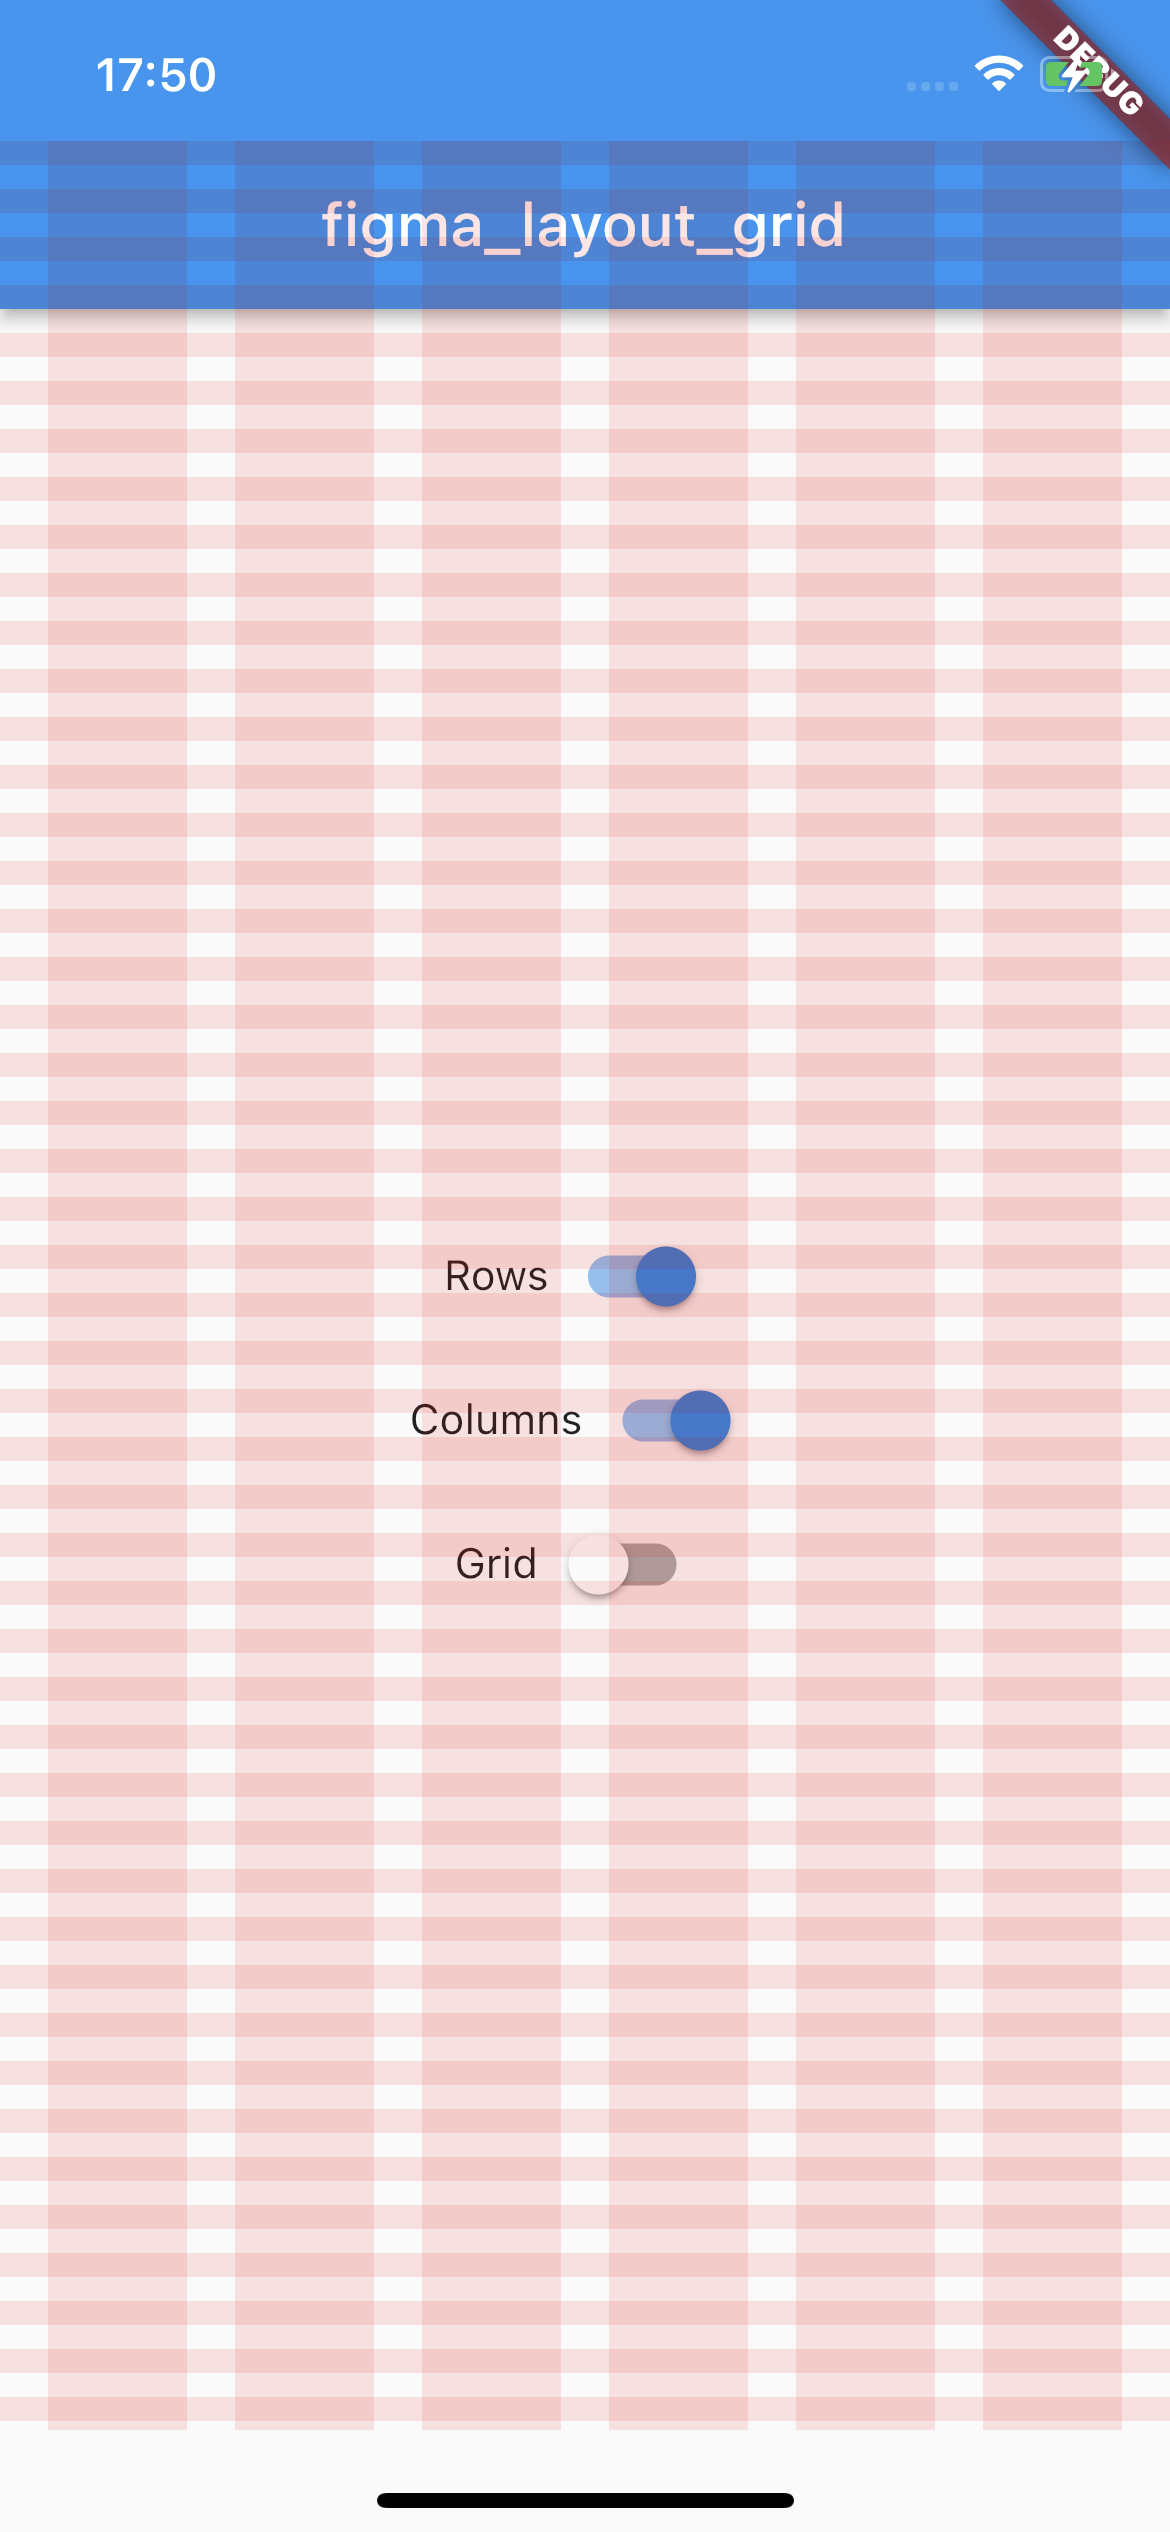
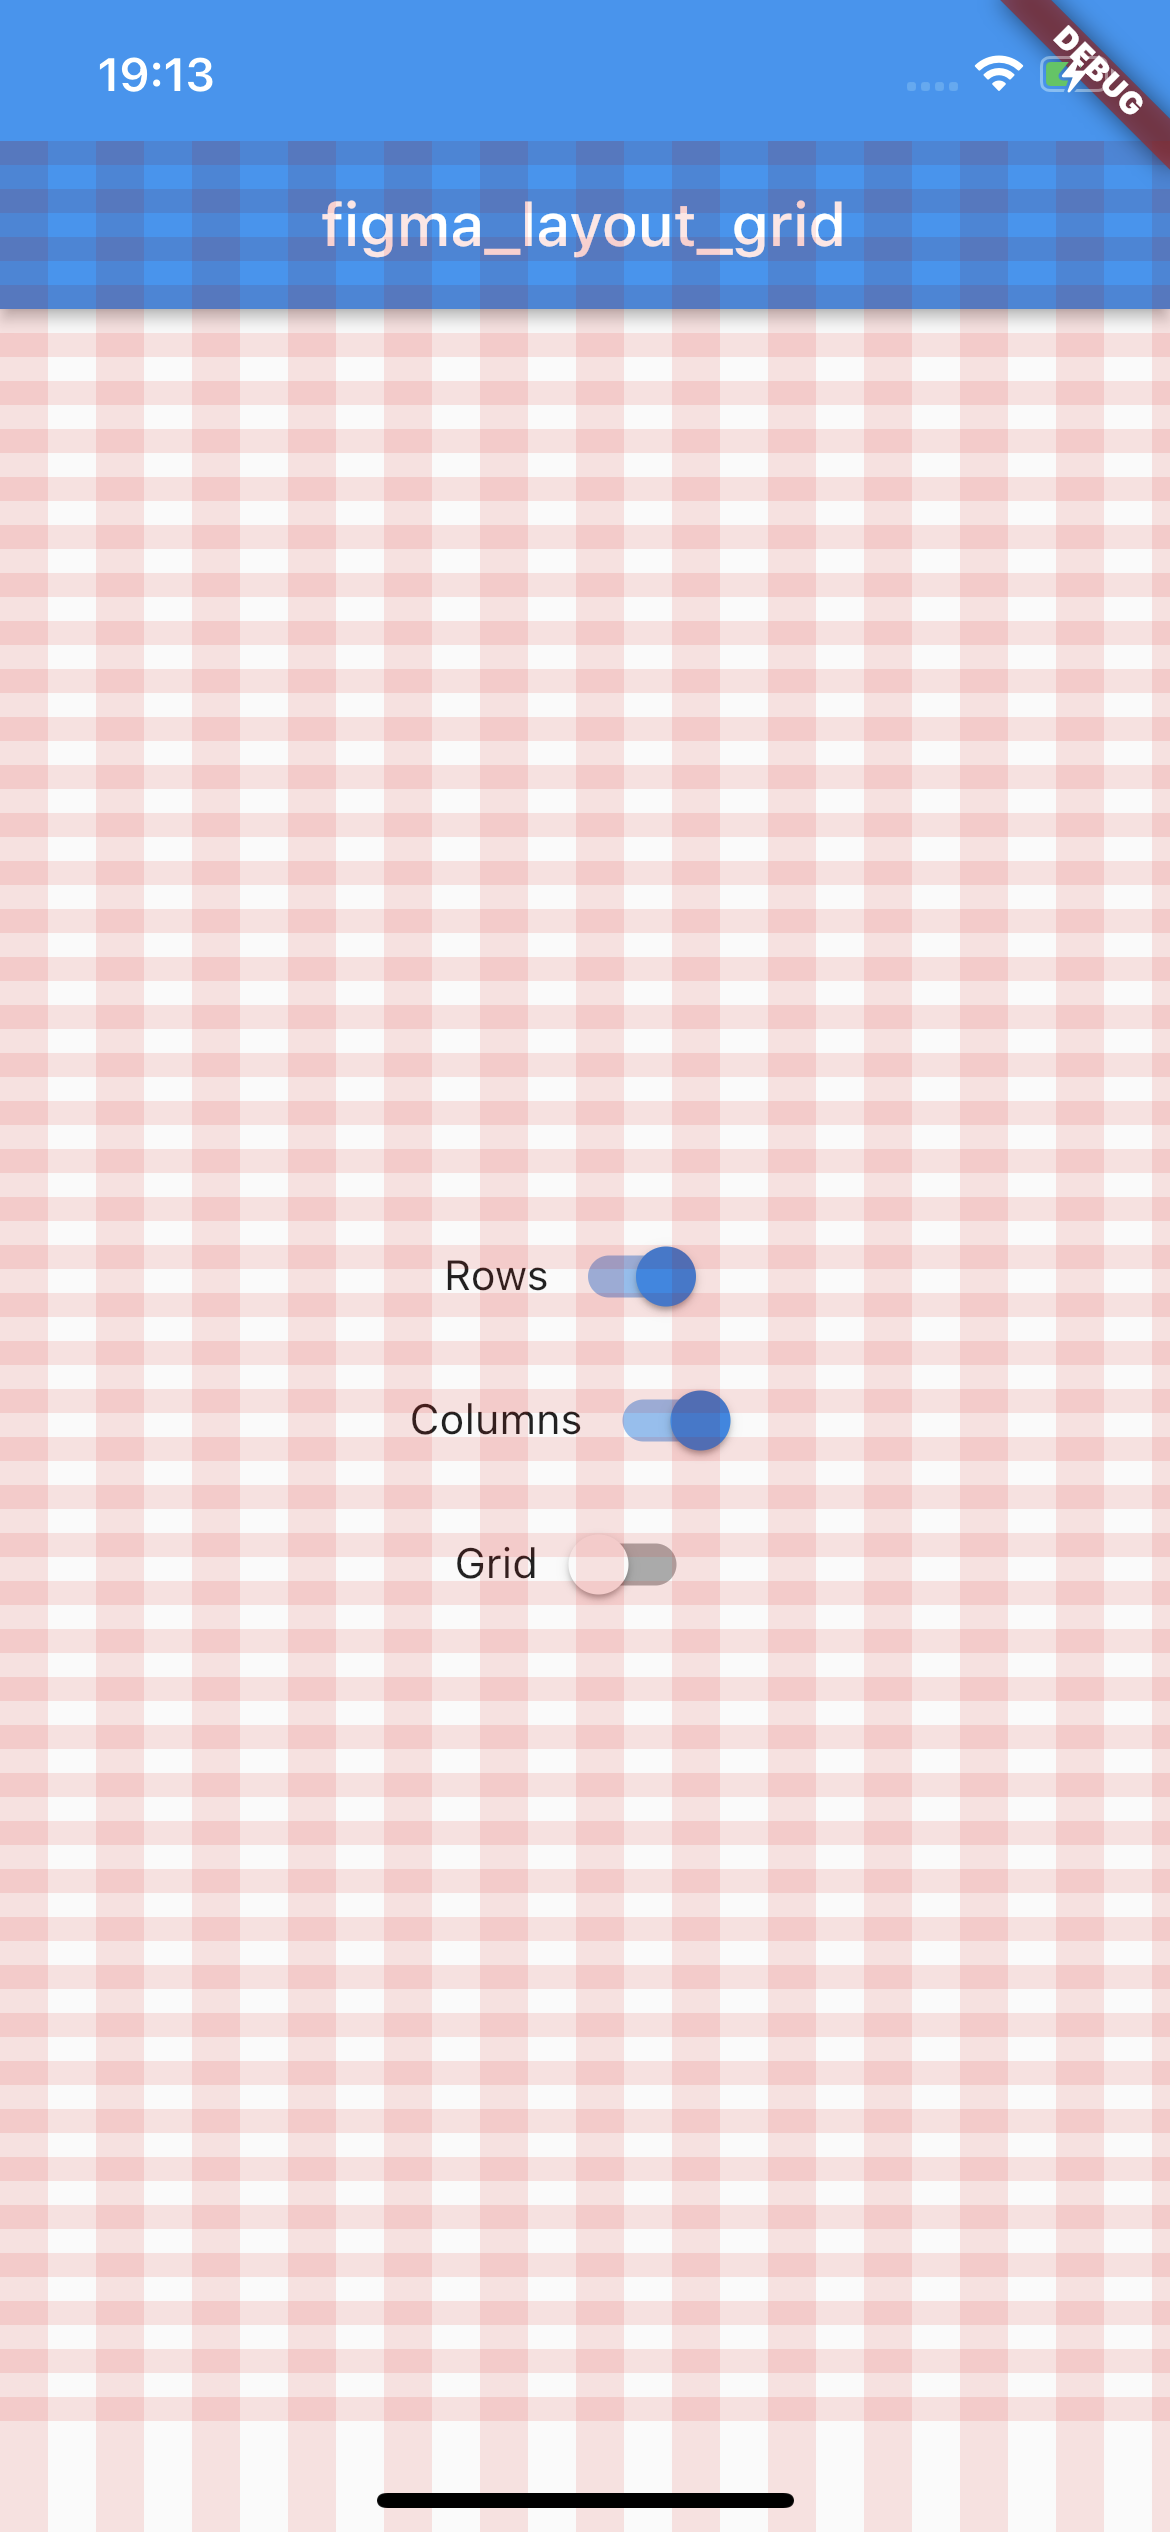
feat: Add seperate support for SafeArea for each layer

diff --git a/lib/src/layout_grid.dart b/lib/src/layout_grid.dart
@@ -15,7 +15,6 @@ class LayoutGrid extends HookWidget {
     this.columnsParams = const ColumnsParams(),
     this.rowsParams = const RowsParams(),
     this.gridParams = const GridParams(),
-    this.safeArea = false,
   }) : super(key: key);
 
   final ValueNotifier<bool> showRows;
@@ -25,8 +24,6 @@ class LayoutGrid extends HookWidget {
   final ColumnsParams columnsParams;
   final RowsParams rowsParams;
   final GridParams gridParams;
-
-  final bool safeArea;
 
   final Widget child;
 
@@ -42,30 +39,30 @@ class LayoutGrid extends HookWidget {
           child: child,
         ),
         SafeArea(
-          left: safeArea,
-          bottom: safeArea,
-          top: safeArea,
-          right: safeArea,
+          left: rowsParams.safeAreaParams.left,
+          bottom: rowsParams.safeAreaParams.bottom,
+          top: rowsParams.safeAreaParams.top,
+          right: rowsParams.safeAreaParams.right,
           child: Rows(
             visible: visibleRows,
             params: rowsParams,
           ),
         ),
         SafeArea(
-          left: safeArea,
-          bottom: safeArea,
-          top: safeArea,
-          right: safeArea,
+          left: columnsParams.safeAreaParams.left,
+          bottom: columnsParams.safeAreaParams.bottom,
+          top: columnsParams.safeAreaParams.top,
+          right: columnsParams.safeAreaParams.right,
           child: Columns(
             visible: visibleColumns,
             params: columnsParams,
           ),
         ),
         SafeArea(
-          left: safeArea,
-          bottom: safeArea,
-          top: safeArea,
-          right: safeArea,
+          left: gridParams.safeAreaParams.left,
+          bottom: gridParams.safeAreaParams.bottom,
+          top: gridParams.safeAreaParams.top,
+          right: gridParams.safeAreaParams.right,
           child: Grid(
             visible: visibleGrid,
             params: gridParams,

diff --git a/lib/src/params.dart b/lib/src/params.dart
@@ -16,6 +16,20 @@ enum ColumnsArragement {
   center,
 }
 
+class SafeAreaParams {
+  const SafeAreaParams({
+    this.top = false,
+    this.bottom = false,
+    this.left = false,
+    this.right = false,
+  });
+
+  final bool top;
+  final bool bottom;
+  final bool left;
+  final bool right;
+}
+
 class RowsParams {
   const RowsParams({
     this.gutter = 8.0,
@@ -25,6 +39,7 @@ class RowsParams {
     this.margin = 0.0,
     this.height = 8.0,
     this.color = _defaultColor,
+    this.safeAreaParams = const SafeAreaParams(),
   });
 
   final int? count;
@@ -34,6 +49,7 @@ class RowsParams {
   final double height;
   final double gutter;
   final Color color;
+  final SafeAreaParams safeAreaParams;
 }
 
 class ColumnsParams {
@@ -45,6 +61,7 @@ class ColumnsParams {
     this.margin = 0.0,
     this.width = 16.0,
     this.color = _defaultColor,
+    this.safeAreaParams = const SafeAreaParams(),
   });
 
   final int? count;
@@ -54,14 +71,17 @@ class ColumnsParams {
   final double width;
   final double gutter;
   final Color color;
+  final SafeAreaParams safeAreaParams;
 }
 
 class GridParams {
   const GridParams({
     this.size = 32.0,
     this.color = _defaultColor,
+    this.safeAreaParams = const SafeAreaParams(),
   });
 
   final double size;
   final Color color;
+  final SafeAreaParams safeAreaParams;
 }

diff --git a/example/layout_grid_demo/lib/main.dart b/example/layout_grid_demo/lib/main.dart
@@ -18,13 +18,18 @@ class MyApp extends StatelessWidget {
       home: LayoutGrid(
         showColumns: GridConfig.showColumnsNotifier,
         showRows: GridConfig.showRowsNotifier,
-        rowsParams: RowsParams(
-          count: 10,
-          height: 12.0,
-          gutter: 12.0,
-          offset: 24.0,
-          arrangement: RowsArragement.bottom,
-          color: const Color(0xFF757975).withOpacity(0.15),
+        rowsParams: const RowsParams(
+          safeAreaParams: SafeAreaParams(
+            bottom: true,
+            top: true,
+          ),
+        ),
+        columnsParams: const ColumnsParams(
+          safeAreaParams: SafeAreaParams(
+            right: true,
+            left: true,
+            top: true,
+          ),
         ),
         showGrid: GridConfig.showGridNotifier,
         child: const MyHomePage(),

diff --git a/README.md b/README.md
@@ -122,12 +122,29 @@ And finally to the following UI.
 
 <br>
 
-There is also a possibility to enable ```SafeArea``` for the layout grid. 
+There is also a possibility to enable ```SafeArea``` for a specific layout.
+
+Each of the three layers has optional ```SafeAreaParams``` within you can pass what SafeArea parts should be handled.
+The available options are ```top```, ```bottom```, ```left``` and ```right``` which correspond to SafeArea's parameters with the same names.
+
+By default SafeArea feature is disabled.
 
 ```dart
 LayoutGrid(
     ...
-    safeArea: true,
+    rowsParams: const RowsParams(
+      safeAreaParams: SafeAreaParams(
+        bottom: true,
+        top: true,
+      ),
+    ),
+    columnsParams: const ColumnsParams(
+      safeAreaParams: SafeAreaParams(
+        right: true,
+        left: true,
+        top: true,
+      ),
+    ),
     child: const MyHomePage(),
 )
 ```
